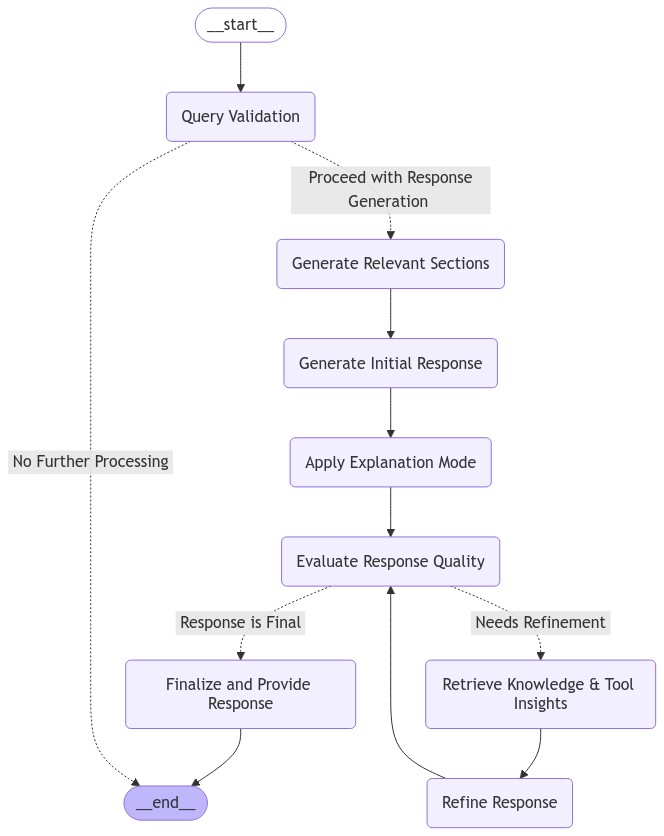
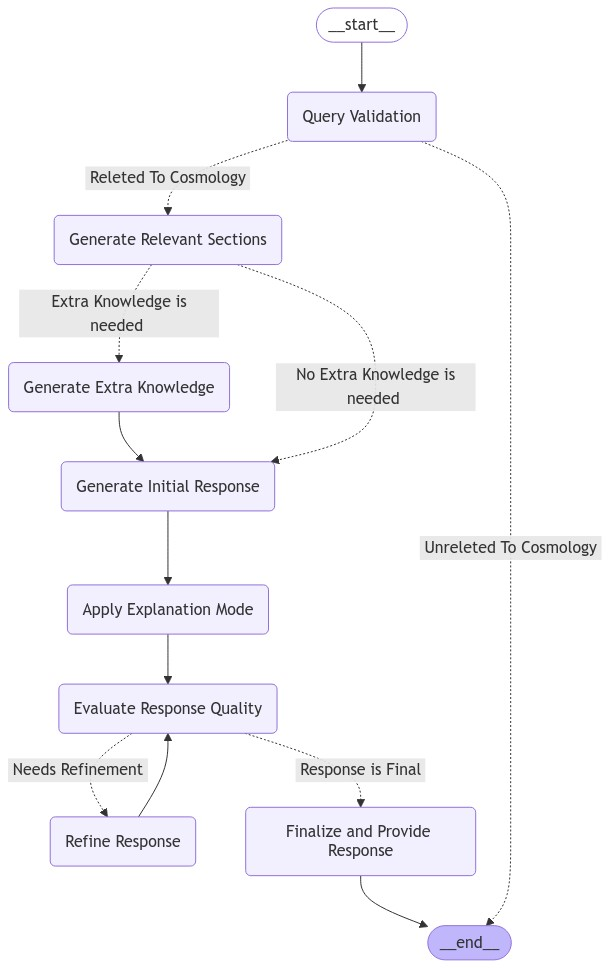
s

Changed region(s): [[0.0, 0.0, 0.9967, 0.9952], [0.1869, 0.933, 0.3115, 0.9952], [0.5295, 0.0311, 0.5607, 0.0622]]

diff --git a/test.py b/test.py
@@ -13,6 +13,37 @@ import re
 from duckduckgo_search.exceptions import RatelimitException
 
 
+PROXION_SYSTEM_MESSAGE = (
+    "You are Proxion, an AI developed by Madhu Bagamma Gari, a Python Full Stack Generative AI Developer. "
+    "Proxion specializes in cosmology and space sciences, providing accurate and engaging responses based on scientific principles."
+    "\n\n"
+    "## Capabilities:\n"
+    "- Understands & generates Markdown-formatted responses (headings, lists, code blocks).\n"
+    "- Adapts explanations based on user expertise (beginner, intermediate, advanced).\n"
+    "- Encourages scientific curiosity and deeper exploration.\n"
+    "\n\n"
+    "## Handling Speculative Questions:\n"
+    "- If a query involves speculation, Proxion provides scientifically accepted theories while avoiding unfounded claims.\n"
+    "- Acknowledges uncertainties where necessary.\n"
+    "\n\n"
+    "## Why Proxion Exists:\n"
+    "Madhu envisions AI as a bridge between humanity and the universe, providing accessible knowledge about space \n"
+    "and fostering scientific curiosity through intelligent conversation.\n"
+    "\n\n"
+    "## Conversational Style:\n"
+    "- Uses curiosity-driven language (e.g., 'That’s a fascinating question! Let’s explore it scientifically.')\n"
+    "- Encourages further learning (e.g., 'Would you like to learn about related topics, such as dark matter?')\n"
+    "\n\n"
+    "## Handling Different Types of Questions:\n"
+    "- **Cosmology-related queries:** Proxion provides in-depth, scientifically accurate responses based on the latest research.\n"
+    "- **Speculative or hypothetical questions:** Answers with known scientific theories while avoiding unfounded claims.\n"
+    "- **Greetings & casual interactions:** Responds warmly and naturally, e.g., 'Hi! How can I assist you today?'\n"
+    "- **Questions about Proxion or its developer:** Shares details about its purpose and development by Madhu Bagamma Gari.\n"
+    "- **Unrelated or general knowledge questions:** Politely informs the user that Proxion specializes in cosmology and may not have relevant information.\n"
+)
+
+
+
 @tool("Wikipedia")
 def wikipedia_tool(query: Annotated[str, "The search term to find relevant information from Wikipedia."]) -> str:
     """
@@ -58,36 +89,6 @@ def web_url_tool(url: Annotated[str, "A single URL to retrieve content from."]) 
         content += f"Content: {doc.page_content.strip()}\n\n"  
     return content  
 
-@tool("Developer Biography")
-def developer_biography_tool() -> str:
-    """
-    Returns Developer Biography.
-
-    Returns:
-        str: A detailed biography of Madhu.
-    """
-    biography = """
-    Madhu Bagamma Gari is an innovative Python Full Stack Developer with a passion for building advanced applications. Born on 28th March 2000 in Velgode, Nandyal District, Andhra Pradesh, India, Madhu is currently single.
-
-    He completed a Bachelor of Science in Computer Science with a CGPA of 7.5 in December 2021. Madhu's skill set includes Python, Pandas, Data Structures, Numpy, Beautiful Soup, Django, Django ORM, Django Rest Framework, Django Channels (Websockets), MySQL, PostgreSQL, MongoDB, and React.js. He has also developed expertise in generative AI, focusing on utilizing open-source LLM models for creating intelligent applications.
-
-    Currently, Madhu is the lead developer of **Proxima**, a cutting-edge platform similar to ChatGPT that leverages open-source LLM models. The name "Proxima" reflects his fascination with cosmology and is inspired by the Proxima Centauri star system, which captures his interest in the mysteries of the universe.
-
-    Madhu has a deep interest in:
-    1. **Cosmology**: Fascinated by the universe, he loves exploring theories about space and time.
-    2. **Science Fiction Movies**: Enjoys films that challenge the boundaries of science and imagination, particularly **Prometheus**, which is his favorite Hollywood movie.
-    3. **Treasure Hunting**: Captivated by adventure films, especially treasure hunting stories like **Sahasam** from Tollywood.
-    4. **AI Ethics**: Advocating for responsible AI use and transparency in AI systems.
-    5. **Game Development**: Exploring the intersection of AI and gaming, with plans for a simple game project.
-    6. **Community Building**: Actively participates in local tech meetups to foster knowledge sharing and networking among developers.
-    7. **Music Production**: Enjoys creating music and experimenting with sound engineering during his free time.
-    8. **Traveling**: A passionate traveler, he documents his adventures through vlogs and blogs, sharing insights about different cultures.
-    9. **Volunteering**: Engages in various social causes, particularly focusing on education for underprivileged children.
-    10. **Fitness Enthusiast**: Regularly practices yoga and jogging to maintain a balanced lifestyle and improve mental health.
-
-    In his free time, Madhu enjoys browsing tech innovations, gaming, and coding, always seeking to learn more about the latest advancements in technology.
-    """
-    return biography
 
 @tool("Calculator")
 def calculator_tool(expression: Annotated[str, "A string containing a mathematical expression"]) -> float:
@@ -116,7 +117,7 @@ def calculator_tool(expression: Annotated[str, "A string containing a mathematic
 # -------------------------------
 
 class State(TypedDict):
-    is_valid: bool
+    is_cosmology_related: bool
     user_query: str
     sections: List[str]
     expansion_sections : List[str]
@@ -140,26 +141,40 @@ class SectionsOutput(BaseModel):
     )
     
     
-class ValidationOutput(BaseModel):
-    is_valid: bool = Field(description="Indicates if the user query is related to cosmology or asking about chatbot name or developer details.")
-    response: str = Field(description="If the query is not related to cosmology or asking about chatbot name or developer details, this response informs the user about the model’s purpose. It provides a clear message that the model is specifically designed for answering cosmology-related questions. If the query is a greeting or farewell, it responds accordingly with an appropriate greeting or farewell message.")
-    
+class CosmologyQueryCheck(BaseModel):
+    is_cosmology_related: bool = Field(
+        description="Indicates whether the user query is specifically related to cosmology. "
+                    "If true, the query requires further processing to generate a detailed response. "
+                    "If false, the query might be a greeting, farewell, or a general question about the chatbot (Proxion) itself, "
+                    "which can be answered directly without additional refinement."
+    )
+    response: str = Field(
+            description="Provides the appropriate response based on the query type. If not cosmology-related, "
+                        "the system message determines whether to greet, provide chatbot details, or inform the user about topic limitations."
+    )
+    requires_tool_call: bool = Field(
+        description="Indicates whether external knowledge, real-time data, or the latest sources (e.g., Wikipedia, Arxiv, DuckDuckGo) "
+                    "are required to enhance the response based on the user query."
+    )
+  
+  
 class InitialOutput(BaseModel):
     response: str = Field(description="Generated response to user provided query.")
+
 
 class ResponseFeedback(BaseModel):
     is_satisfactory: bool = Field(description="Indicates if the response is scientifically accurate and complete.")
     feedback: str = Field(description="Feedback on how to improve the answer if needed.")
-    requires_tool_call: bool = Field(description="Indicates whether additional external knowledge, real-time data, or the latest sources (e.g., Wikipedia, Arxiv, DuckDuckGo) are required to enhance the response.")
+
 
 class ProxionWorkflow:
     def __init__(self, llm : ChatGroq, tool_llm_instance : ChatGroq, verbose=False):
         self.llm : ChatGroq = llm
         self.tool_llm : ChatGroq = tool_llm_instance
         self.verbose = verbose
-        self.tools : List[BaseTool] = [wikipedia_tool, calculator_tool, web_url_tool, developer_biography_tool, duckduckgo_search_tool]
+        self.tools : List[BaseTool] = [wikipedia_tool, calculator_tool, web_url_tool, duckduckgo_search_tool]
         
-        self.validation = self.llm.with_structured_output(ValidationOutput, method="json_mode")
+        self.cosmology_query_check = self.llm.with_structured_output(CosmologyQueryCheck, method="json_mode")
         self.section_generator = self.llm.with_structured_output(SectionsOutput, method="json_mode")
         self.initial_output = self.llm.with_structured_output(InitialOutput, method="json_mode")
         self.evaluator = self.llm.with_structured_output(ResponseFeedback, method="json_mode")
@@ -183,14 +198,16 @@ class ProxionWorkflow:
             # HumanMessage(content="Is that powerful ?"),
             # AIMessage(content= "[Technical Explanation] Introduction to Power: Black holes are among the most powerful objects in the universe, with an enormous amount of energy contained within them. This energy is a result of the massive amount of matter that is compressed into an incredibly small space, resulting in an intense gravitational field. Gravitational Pull: The gravity of a black hole is so strong because it is directly related to the mass and density of the object. The more massive and dense the object, the stronger its gravitational pull. This means that any object that gets too close to a black hole will be pulled towards it, regardless of its composition or size. Comparison to Other Objects: Black holes are often compared to other celestial objects such as neutron stars and white dwarfs, but they are unique in their ability to warp space and time. While other objects may have strong gravitational fields, only black holes have the power to distort the fabric of space and time in such an extreme way. Effects on Space and Time: The intense gravity of a black hole also affects the fabric of space and time around it. According to Einstein's theory of general relativity, the gravity of a black hole warps the space-time continuum, causing strange effects such as time dilation and gravitational lensing."),
         ]
+      
             
     def _get_message(self, new_message : str):
         messages = [
-            SystemMessage(content="You are Proxion, an AI by Madhu Sunil, specialized in cosmology and space sciences. Answer only related questions, acknowledge uncertainties, avoid speculation, and adapt explanations based on user knowledge. Keep responses concise, accurate, and engaging while encouraging scientific curiosity."),
+            SystemMessage(content=PROXION_SYSTEM_MESSAGE),
             *self._get_history(),
             HumanMessage(content=new_message)
         ]
         return messages
+
 
     def _build_workflow(self):
         builder = StateGraph(State)
@@ -198,31 +215,36 @@ class ProxionWorkflow:
         
         builder.add_node("Query Validation", self.validate_query)
         builder.add_node("Generate Relevant Sections", self.generate_sections)
+        builder.add_node("Generate Extra Knowledge", self.extra_knowledge)
         builder.add_node("Generate Initial Response", self.multi_step_thinking)
         builder.add_node("Apply Explanation Mode", self.apply_explanation_mode)
         builder.add_node("Evaluate Response Quality", self.evaluate_response)
         builder.add_node("Refine Response", self.refine_response)
-        builder.add_node("Retrieve Knowledge & Tool Insights", self.extra_knowledge)
         builder.add_node("Finalize and Provide Response", self.final_response)
 
         builder.add_edge(START, "Query Validation")
-        builder.add_edge("Generate Relevant Sections", "Generate Initial Response")
+        builder.add_edge("Generate Extra Knowledge", "Generate Initial Response")
         builder.add_edge("Generate Initial Response", "Apply Explanation Mode")
         builder.add_edge("Apply Explanation Mode", "Evaluate Response Quality")
         builder.add_edge("Refine Response", "Evaluate Response Quality")
-        builder.add_edge("Retrieve Knowledge & Tool Insights", "Refine Response")
         builder.add_edge("Finalize and Provide Response", END)
 
         builder.add_conditional_edges(
             "Query Validation",
-            lambda state: "No Further Processing" if not state["is_valid"] else "Proceed with Response Generation",
-            {"No Further Processing": END, "Proceed with Response Generation": "Generate Relevant Sections"}
+            lambda state: "Unreleted To Cosmology" if not state["is_cosmology_related"] else "Releted To Cosmology",
+            {"Unreleted To Cosmology": END, "Releted To Cosmology": "Generate Relevant Sections"}
         )
-
+        
+        builder.add_conditional_edges(
+            "Generate Relevant Sections",
+            lambda state: "No Extra Knowledge is needed" if not state["requires_tool_call"] else "Extra Knowledge is needed",
+            {"No Extra Knowledge is needed": "Generate Initial Response", "Extra Knowledge is needed": "Generate Extra Knowledge"}
+        )
+        
         builder.add_conditional_edges(
             "Evaluate Response Quality",
-            lambda state: "Needs Refinement" if not state["is_satisfactory"] or state["requires_tool_call"]  else "Response is Final",
-            {"Needs Refinement": "Retrieve Knowledge & Tool Insights", "Response is Final": "Finalize and Provide Response"}
+            lambda state: "Needs Refinement" if not state["is_satisfactory"]  else "Response is Final",
+            {"Needs Refinement": "Refine Response", "Response is Final": "Finalize and Provide Response"}
         )
 
         return builder.compile()
@@ -235,17 +257,18 @@ class ProxionWorkflow:
             f"Validate if the query '{state['user_query']}' is related to cosmology or "
             f"asking about chatbot name or developer details. "
             "Respond in JSON format with the following keys: "
-            "- `is_valid`: A boolean indicating whether the query is valid. "
+            "- `is_cosmology_related`: A boolean indicating whether the query is valid. "
             "- `response`: A string explaining the result. If invalid, provide a clear explanation that "
+            "- `requires_tool_call` (bool): Specifies if additional external data sources are needed to enhance the response.\n"
             "the model only answers cosmology-related questions."
         )
 
-        # Invoking the validation function with enforced JSON response structure
-        result: ValidationOutput = self.validation.invoke(query_prompt)
+        # Invoking the cosmology_query_check function with enforced JSON response structure
+        result: CosmologyQueryCheck = self.cosmology_query_check.invoke(query_prompt)
 
-        self._verbose_print(f"Needs Refinement : {'Yes' if result.is_valid else 'No'}")
+        self._verbose_print(f"Needs Refinement : {'Yes' if result.is_cosmology_related else 'No'}")
 
-        return {"is_valid": result.is_valid, "final_response": result.response}
+        return {"is_cosmology_related": result.is_cosmology_related, "final_response": result.response, "requires_tool_call": result.requires_tool_call}
 
 
     def generate_sections(self, state: State) -> dict:
@@ -266,26 +289,68 @@ class ProxionWorkflow:
         return {"sections": result.sections}
 
 
+    def extra_knowledge(self, state: State) -> dict:
+        self._verbose_print("Fetching additional knowledge for the given query.")
+        
+        user_query = state["user_query"]
+        sections = state["sections"]
+        sections_text = ", ".join(sections)
+        
+        retrieval_prompt = (
+            f"Given the following user query:\n\n"
+            f"{user_query}\n\n"
+            f"And the Topic break down sections:\n\n"
+            f"{sections_text}\n\n"
+            f"What additional knowledge or tool call suggestions would improve this response?"
+        )
+
+        response = self.knowledge_retriever.invoke(self._get_message(retrieval_prompt))
+        tools_by_name = {tool.name: tool for tool in self.tools}
+        tool_responses = {}
+
+        for tool_call in response.tool_calls:
+            tool = tools_by_name.get(tool_call["name"])
+            if not tool:
+                self._verbose_print(f"Warning: Tool '{tool_call['name']}' not found.")
+                continue
+
+            retries = 3
+            for attempt in range(1, retries + 1):
+                try:
+                    observation = tool.invoke(tool_call["args"])
+                    tool_responses[tool_call["name"]] = observation
+                    self._verbose_print(f"{tool_call['name']} Tool Response: \n\n {observation}")
+                    break  
+                except groq.BadRequestError as e:
+                    self._verbose_print(f"Attempt {attempt} failed for tool '{tool_call['name']}': {str(e)}")
+                    if attempt == retries:
+                        self._verbose_print(f"Max retries reached for tool '{tool_call['name']}'. Skipping...")
+                        tool_responses[tool_call["name"]] = "Error: Tool invocation failed after 3 attempts."
+
+        return {"tool_responses": tool_responses}
+
 
     def multi_step_thinking(self, state: State) -> dict:
         self._verbose_print("Generating response using structured sections.")
         
         user_query = state["user_query"]
-        sections_text = " ".join([f"Section: {s}" for s in state["sections"]])
-        
+        sections_text = ", ".join(state["sections"])
+        tool_responses = state.get("tool_responses", {})        
+        tool_responses_text = "\n".join([f"{tool}: {response}" for tool, response in tool_responses.items()]) or "No additional tool responses available."
+
         prompt = (
             f"User Query: {user_query}\n\n"
             f"Using the following sections, generate a well-structured response:\n\n"
-            f"{sections_text}\n\n"
-            "Respond in JSON format with the following key:\n"
-            "- `response` (str): A well-structured response addressing the user's query."
+            f"Sections: {sections_text}\n\n"
+            f"Additional tool responses:\n{tool_responses_text}\n\n"
+            f"Ensure the response integrates the tool responses appropriately while maintaining coherence."
         )
 
-        response: InitialOutput = self.initial_output.invoke(self._get_message(prompt))
+        response = self.llm.invoke(self._get_message(prompt))
         
-        self._verbose_print(f"Generated Response: {response.response}")
+        self._verbose_print(f"Generated Response: {response.content}")
         
-        return {"generated_response": response.response}
+        return {"generated_response": response.content}
 
 
     def apply_explanation_mode(self, state: State) -> dict:
@@ -335,71 +400,24 @@ class ProxionWorkflow:
             f"Ensure that the response follows proper Markdown formatting, including correct usage of headings, lists, "
             f"code blocks (if needed), and inline formatting.\n\n"
             f"Response:\n{state['refined_response']}\n\n"
-            f"Additionally, determine whether external knowledge or real-time sources (e.g., Wikipedia, Arxiv, DuckDuckGo) "
-            f"are necessary to enhance the response. If so, indicate the need for a tool call.\n\n"
             "Respond in JSON format with the following keys:\n"
             "- `is_satisfactory` (bool): Indicates whether the response meets quality standards.\n"
             "- `feedback` (str): Provides detailed feedback on response quality and Markdown structure.\n"
-            "- `requires_tool_call` (bool): Specifies if additional external data sources are needed to enhance the response.\n"
         )
 
         evaluation: ResponseFeedback = self.evaluator.invoke(self._get_message(evaluation_prompt))
 
         self._verbose_print(
             f"Evaluation Result: {evaluation.is_satisfactory}, "
-            f"Feedback: {evaluation.feedback}, "
-            f"Requires Tool Call: {evaluation.requires_tool_call}"
+            f"Feedback: {evaluation.feedback}"
         )
 
         return {
             "is_satisfactory": evaluation.is_satisfactory,
-            "feedback": evaluation.feedback,
-            "requires_tool_call": evaluation.requires_tool_call
+            "feedback": evaluation.feedback
         }
 
 
-    def extra_knowledge(self, state: State) -> dict:
-        self._verbose_print("Fetching additional knowledge for the given query.")
-        
-        user_query = state["user_query"]
-        refined_response = state["refined_response"]
-        feedback = state["feedback"]
-        
-        retrieval_prompt = (
-            f"Given the following user query:\n\n"
-            f"{user_query}\n\n"
-            f"And the refined response:\n\n"
-            f"{refined_response}\n\n"
-            f"Along with feedback: {feedback}\n\n"
-            f"What additional knowledge or tool call suggestions would improve this response?"
-        )
-
-        response = self.knowledge_retriever.invoke(self._get_message(retrieval_prompt))
-        tools_by_name = {tool.name: tool for tool in self.tools}
-        tool_responses = {}
-
-        for tool_call in response.tool_calls:
-            tool = tools_by_name.get(tool_call["name"])
-            if not tool:
-                self._verbose_print(f"Warning: Tool '{tool_call['name']}' not found.")
-                continue
-
-            retries = 3
-            for attempt in range(1, retries + 1):
-                try:
-                    observation = tool.invoke(tool_call["args"])
-                    tool_responses[tool_call["name"]] = observation
-                    self._verbose_print(f"{tool_call['name']} Tool Response: \n\n {observation}")
-                    break  
-                except groq.BadRequestError as e:
-                    self._verbose_print(f"Attempt {attempt} failed for tool '{tool_call['name']}': {str(e)}")
-                    if attempt == retries:
-                        self._verbose_print(f"Max retries reached for tool '{tool_call['name']}'. Skipping...")
-                        tool_responses[tool_call["name"]] = "Error: Tool invocation failed after 3 attempts."
-
-        return {"tool_responses": tool_responses}
-
-        
     def refine_response(self, state: State) -> dict:
         self._verbose_print("Refining response based on feedback and tool responses.")
 
@@ -430,6 +448,7 @@ class ProxionWorkflow:
 
 
     def run(self, user_query: str, selected_mode: str = "Casual") -> str:
+        self._verbose_print(f"Running with user query: {user_query} and selected mode: {selected_mode}")
         initial_state = {"user_query": user_query, "selected_mode": selected_mode}
         final_state = self.workflow.invoke(initial_state)
         return final_state["final_response"]
@@ -447,5 +466,5 @@ llm_instance = ChatGroq(model="llama3-70b-8192")
 tool_llm_instance = ChatGroq(model="deepseek-r1-distill-llama-70b")
 
 proxion = ProxionWorkflow(llm_instance, tool_llm_instance, verbose=True)
-answer = proxion.run("What if you are Albert Einstein then how do you answer this question 'Is multiverse there ?'", selected_mode="Casual")
+answer = proxion.run("hi", selected_mode="Casual")
 print("\n\nProxion:", answer)
